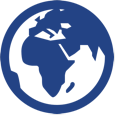
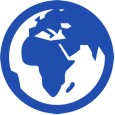
did major changes in colors

diff --git a/assets/stylesheets/config/_bootstrap_variables.scss b/assets/stylesheets/config/_bootstrap_variables.scss
@@ -9,12 +9,17 @@ $headings-font-family:    $headers-font;
 $body-bg:                 #fff;
 $font-base: 1.6rem;
 
+
+
+
+
 // Colors
 // $gray-base:       $gray;
-$color-primary-blue:   #215CB5;
-$color-primary-yellow:   #F9EA50;
+$color-primary-blue:   #52ACFF;
+$color-primary-yellow:   #FFE32C;
 $color-grey:   #333333;
-$color-blue-dark:   #234385;
+$color-blue-dark:   #1F4EAE;
+$color-blue-light:   #52ACFF;
 // $color-danger:    $red;
 // $color-warning:   $orange;
 
@@ -23,4 +28,12 @@ $border-radius-base:  2px;
 $border-radius-large: 2px;
 $border-radius-small: 2px;
 
-// Override other variables below!
+
+
+
+
+//  PREVIOSU COLORS
+// $color-primary-blue:   #215CB5;
+// $color-blue-dark:   #234385;
+// $color-primary-yellow:   #F9EA50;
+

diff --git a/assets/stylesheets/pages/_home.scss b/assets/stylesheets/pages/_home.scss
@@ -470,15 +470,15 @@
     display: inline-block;
     font-size: 2rem;
     text-decoration: none;
-    color: $color-primary-blue;
-    border-bottom: 1px solid $color-primary-blue;
+    color: $color-blue-dark;
+    border-bottom: 1px solid $color-blue-dark;
     transition: all .2s;
     padding: 3px;
 
     &:hover {
         text-decoration: none;
         color: #fff;
-        background-color: $color-primary-blue;
+        background-color: $color-blue-dark;
         transform: translateY(-0.3rem);
         box-shadow: 0 0.5rem 2rem rgba(#000000, 0.2);
     }

diff --git a/assets/stylesheets/components/_card.scss b/assets/stylesheets/components/_card.scss
@@ -31,6 +31,7 @@
 
     &__blue {
         background-color: $color-blue-dark;
+        // background-color: #5887FF;
     }
 
     &__btn-like {
